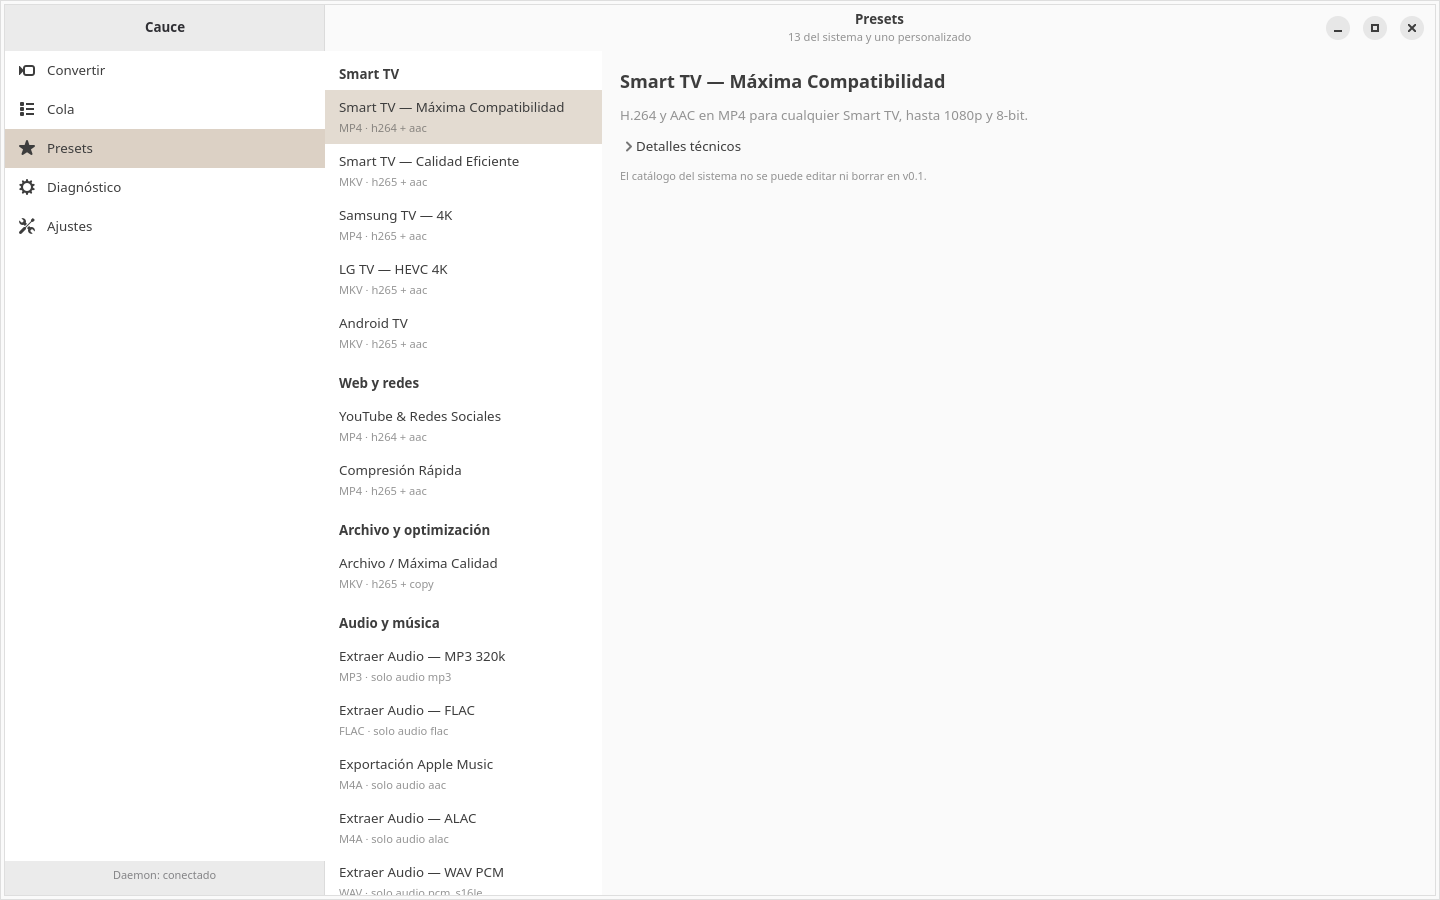
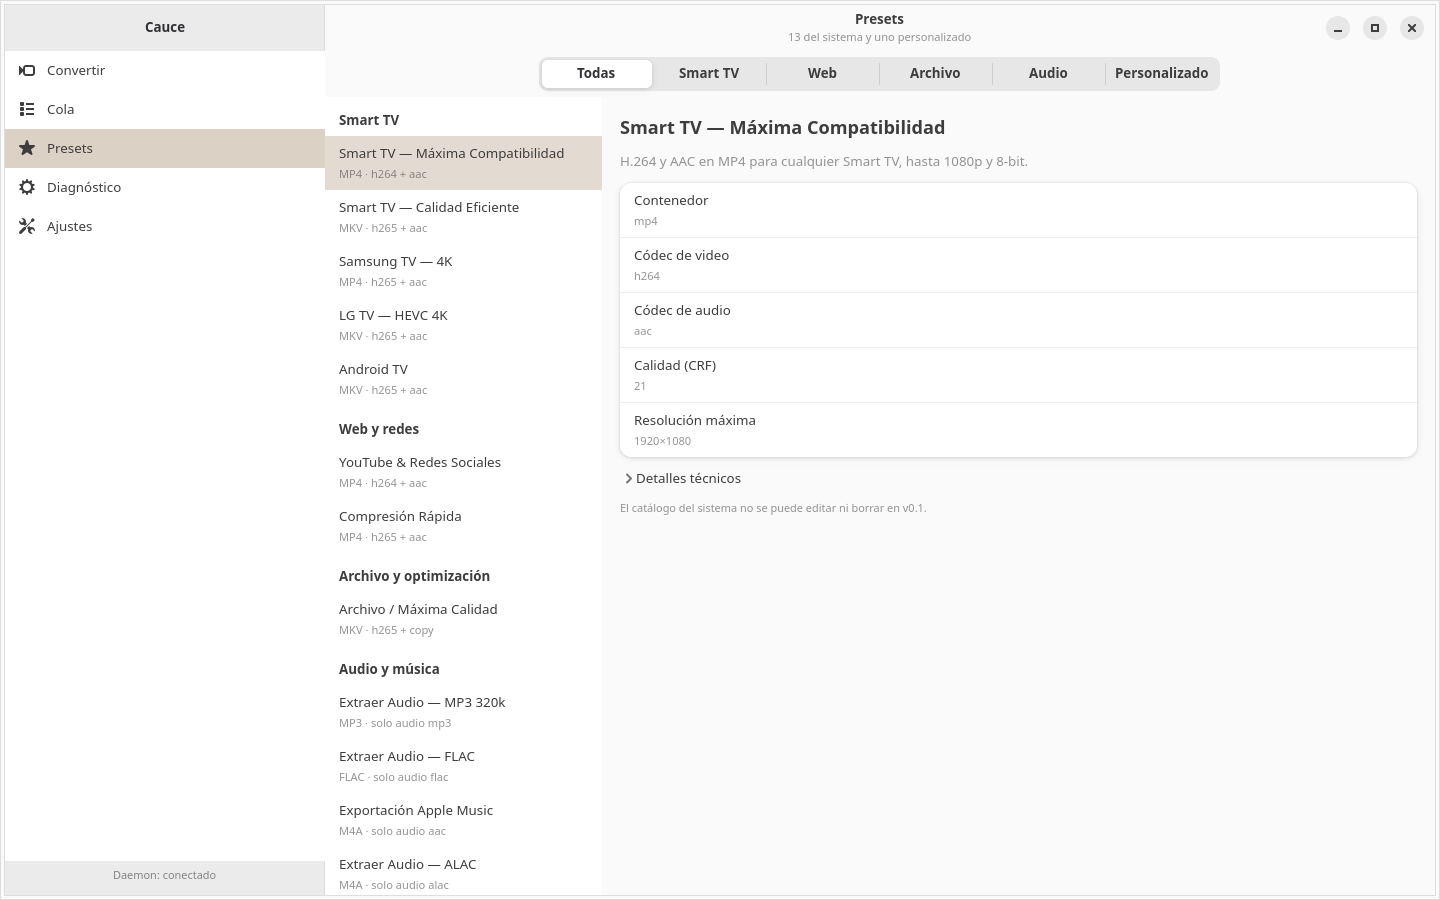
docs(release): record the preset navigator and the new package

diff --git a/odd/tasks/cauce-0.1.md b/odd/tasks/cauce-0.1.md
@@ -751,3 +751,14 @@ Copiados de `architecture.md` §19 y `ui-mvp.md` §170-179; se marcan solo con e
 - **Capturas nuevas**: `01-convertir` (1440, con la tarjeta de drop), `03-presets` (1440, categorías), `06-convertir-960` (960, CTA visible).
 - **Pendientes de captura**: estado `drag-over` y un error humano en pantalla — requieren forzar el arrastre y un fallo real (p. ej. ruta denegada) y no se capturaron en esta pasada. El editor del preset personalizado tampoco tiene captura propia (está dentro de `03-presets`).
 - **Excepción de tamaño**: los commits de GUI (1784) y de jobs+daemon (826) superan 400 líneas; se aceptó para no inventar cortes sobre archivos que el worker no podía crear.
+
+**L55 (navegación de Presets) — corregido, con una captura válida y dos pendientes:**
+- **Chapa de categorías fija**: `AdwToggleGroup` con Todas · Smart TV · Web · Archivo · Audio · **Personalizado**, fuera de los dos scrollers, visible sin scrollear. Suite **295/295**.
+- **Detalle con lo esencial**: Contenedor, Código de video, Código de audio, Calidad (CRF) y Resolución máxima a la vista; perfil, nivel, bit depth, HDR, subtítulos, faststart y metadata dentro de "Detalles técnicos" cerrado. Valores ausentes en palabras.
+- **Estado vacío único**: eliminada la línea duplicada; la tarjeta de drop es la única instrucción.
+- **`03-presets.png` actualizada y verificada a ojo**: barra de chips fija, filtro Smart TV activo, lista filtrada y detalle con los cinco campos + "Detalles técnicos".
+- **Pendientes reales**:
+  1. **Editor del personalizado sin captura**: el clic sobre el chip "Personalizado" (700,62) no tomó en la corrida; la imagen resultante seguía en Smart TV, así que se descartó en lugar de guardarla con un nombre falso.
+  2. **Estado de error real sin captura**: requiere forzar un fallo verdadero (archivo inválido o ruta denegada); no se simuló.
+  3. **`drag-over`**: no capturable sin origen de arrastre real en Xvfb; queda cubierto por test.
[1 lines of base64/hex data omitted]

diff --git a/docs/release-notes-0.1.0.md b/docs/release-notes-0.1.0.md
@@ -108,4 +108,4 @@ Two non-fixture AV1 + Opus 1280×720 videos were converted through the **install
 
 Both jobs finished `completed`; the GUI showed "Daemon: conectado" against the real `XDG_RUNTIME_DIR` with both rows marked "Completada". `cauce.socket` was active with `NRestarts=0` after the socket-activation fix.
 
[2 lines of base64/hex data omitted]
